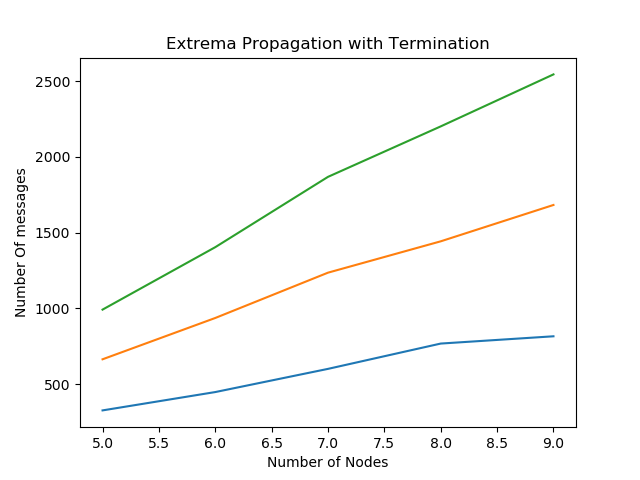
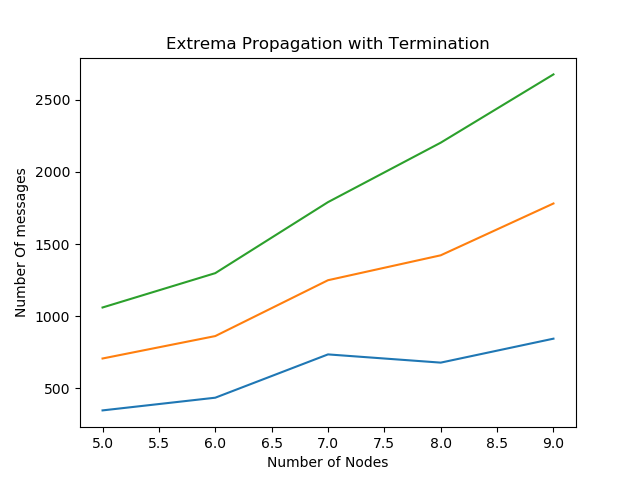
fixed some issues with allNeighbours, not all

diff --git a/ExtremaAllNeighbours.py b/ExtremaAllNeighbours.py
@@ -2,6 +2,9 @@ import discrete_event_simulator, gen_Graphs
 import random
 import statistics
 
+from Simulator_Statistics import Simulator_Analyzer
+
+
 class ExtremaNode(discrete_event_simulator.Node):
     def __init__(self, node, neighbours, K: int, T: int, drop_chance = 0.0, r = 1, timeout = 1):
         self.node = node
@@ -20,7 +23,7 @@ class ExtremaNode(discrete_event_simulator.Node):
         self.x = []
         for _ in range(self.K):
             self.x.append(self.r * random.expovariate(1))
-        return self.broadcast_messages(self.x)
+        return self.broadcast_messages(self.x), []
 
     def handle_message(self, message: discrete_event_simulator.Message, time):
         self.time = time
@@ -48,10 +51,10 @@ class ExtremaNode(discrete_event_simulator.Node):
                 print("Node ", self.node, " :: Result: " , N, " ± ", (variance**(1/2)) * 3)
             else:
                 #msgs.append(discrete_event_simulator.Message(self.node, message.src, message.body))
-                mgs = self.broadcast_messages(message.body)
+                msgs = self.broadcast_messages(message.body)
                 print("me: " + str(message.to) + " to: " + str(message.src) + " request message sent")
             self.converged = True
-            return (msgs, [])
+            return msgs, []
         else:
             if time >= self.timeout_time and not self.converged:
                 self.timeout_time = time + self.timeout
@@ -61,22 +64,22 @@ class ExtremaNode(discrete_event_simulator.Node):
             msgs = self.broadcast_messages(self.x)
             for msg in msgs:
                 print("src: " + str(msg.src) + " to: " + str(msg.to))
-            return (msgs, timeout_event)
+            return msgs, timeout_event
 
     def handle_event(self, event: discrete_event_simulator.SelfEvent, time):
         if self.converged:
-            return ([], [])
+            return [], []
         if time >= self.timeout_time:
             print("TIMEOUT " + str(self.node))
             self.timeout_time = time + self.timeout
             timeout_event = (self.timeout, discrete_event_simulator.SelfEvent(self.node, None))
             msgs = self.broadcast_messages(self.x)
-            return (msgs, [])
+            return msgs, []
         else:
             print("TIMEOUT2 " + str(self.node))
             timeout = self.timeout_time - time
             timeout_event = (timeout, discrete_event_simulator.SelfEvent(self.node, None))
-            return ([], [timeout_event])
+            return [], [timeout_event]
 
     def broadcast_messages(self, body):
         msgs = []
@@ -105,7 +108,7 @@ class UnstableNetworkSimulator(discrete_event_simulator.Simulator):
                     # print(str(node) + " -> " + str(neighbour) + " = " + str(self.distances[node][neighbour]))
             self.distances[node][node] = self.timeout
         #return [(random.randrange(1, self.network_change_time + 2), discrete_event_simulator.SimulatorEvent(True))]
-        return []
+        return [], []
 
 def simulatorGenerator(n, K, T, max_dist = 0, timeout = 0, fanout = None, debug = False):
     graph = gen_Graphs.random_graph(n)
@@ -142,5 +145,10 @@ def floods(n_iter):
     print("Numero mensagens máximo: " + str(max(n_messages)))
 
 
-floods(20)
-print("Fim!!")
+analyser = Simulator_Analyzer()
+range_n = range(5, 10)
+simulators = []
+for n in range_n:
+    simulators.append(simulatorGenerator(n, 15, 15, max_dist=20))
+
+analyser.analyze_variable("Number of Nodes", range_n, simulators, 5, title="Extrema Propagation All Neighbours")

diff --git a/ExtremaTimeout.py b/ExtremaTimeout.py
@@ -2,6 +2,9 @@ import discrete_event_simulator, gen_Graphs
 import random
 import statistics
 
+from Simulator_Statistics import Simulator_Analyzer
+
+
 class ExtremaNode(discrete_event_simulator.Node):
     def __init__(self, node, neighbours, K: int, T: int, drop_chance = 0.0, r = 1, timeout = 1):
         self.node = node
@@ -132,5 +135,12 @@ def floods(n_iter):
     print("Numero mensagens máximo: " + str(max(n_messages)))
 
 
-floods(20)
+analyser = Simulator_Analyzer()
+range_n = range(5, 10)
+simulators = []
+for n in range_n:
+    simulators.append(simulatorGenerator(n, 15, 15, max_dist=20))
+
+analyser.analyze_variable("Number of Nodes3", range_n, simulators, 5, title="Extrema Propagation Timeout")
+
 print("Fim!!")
